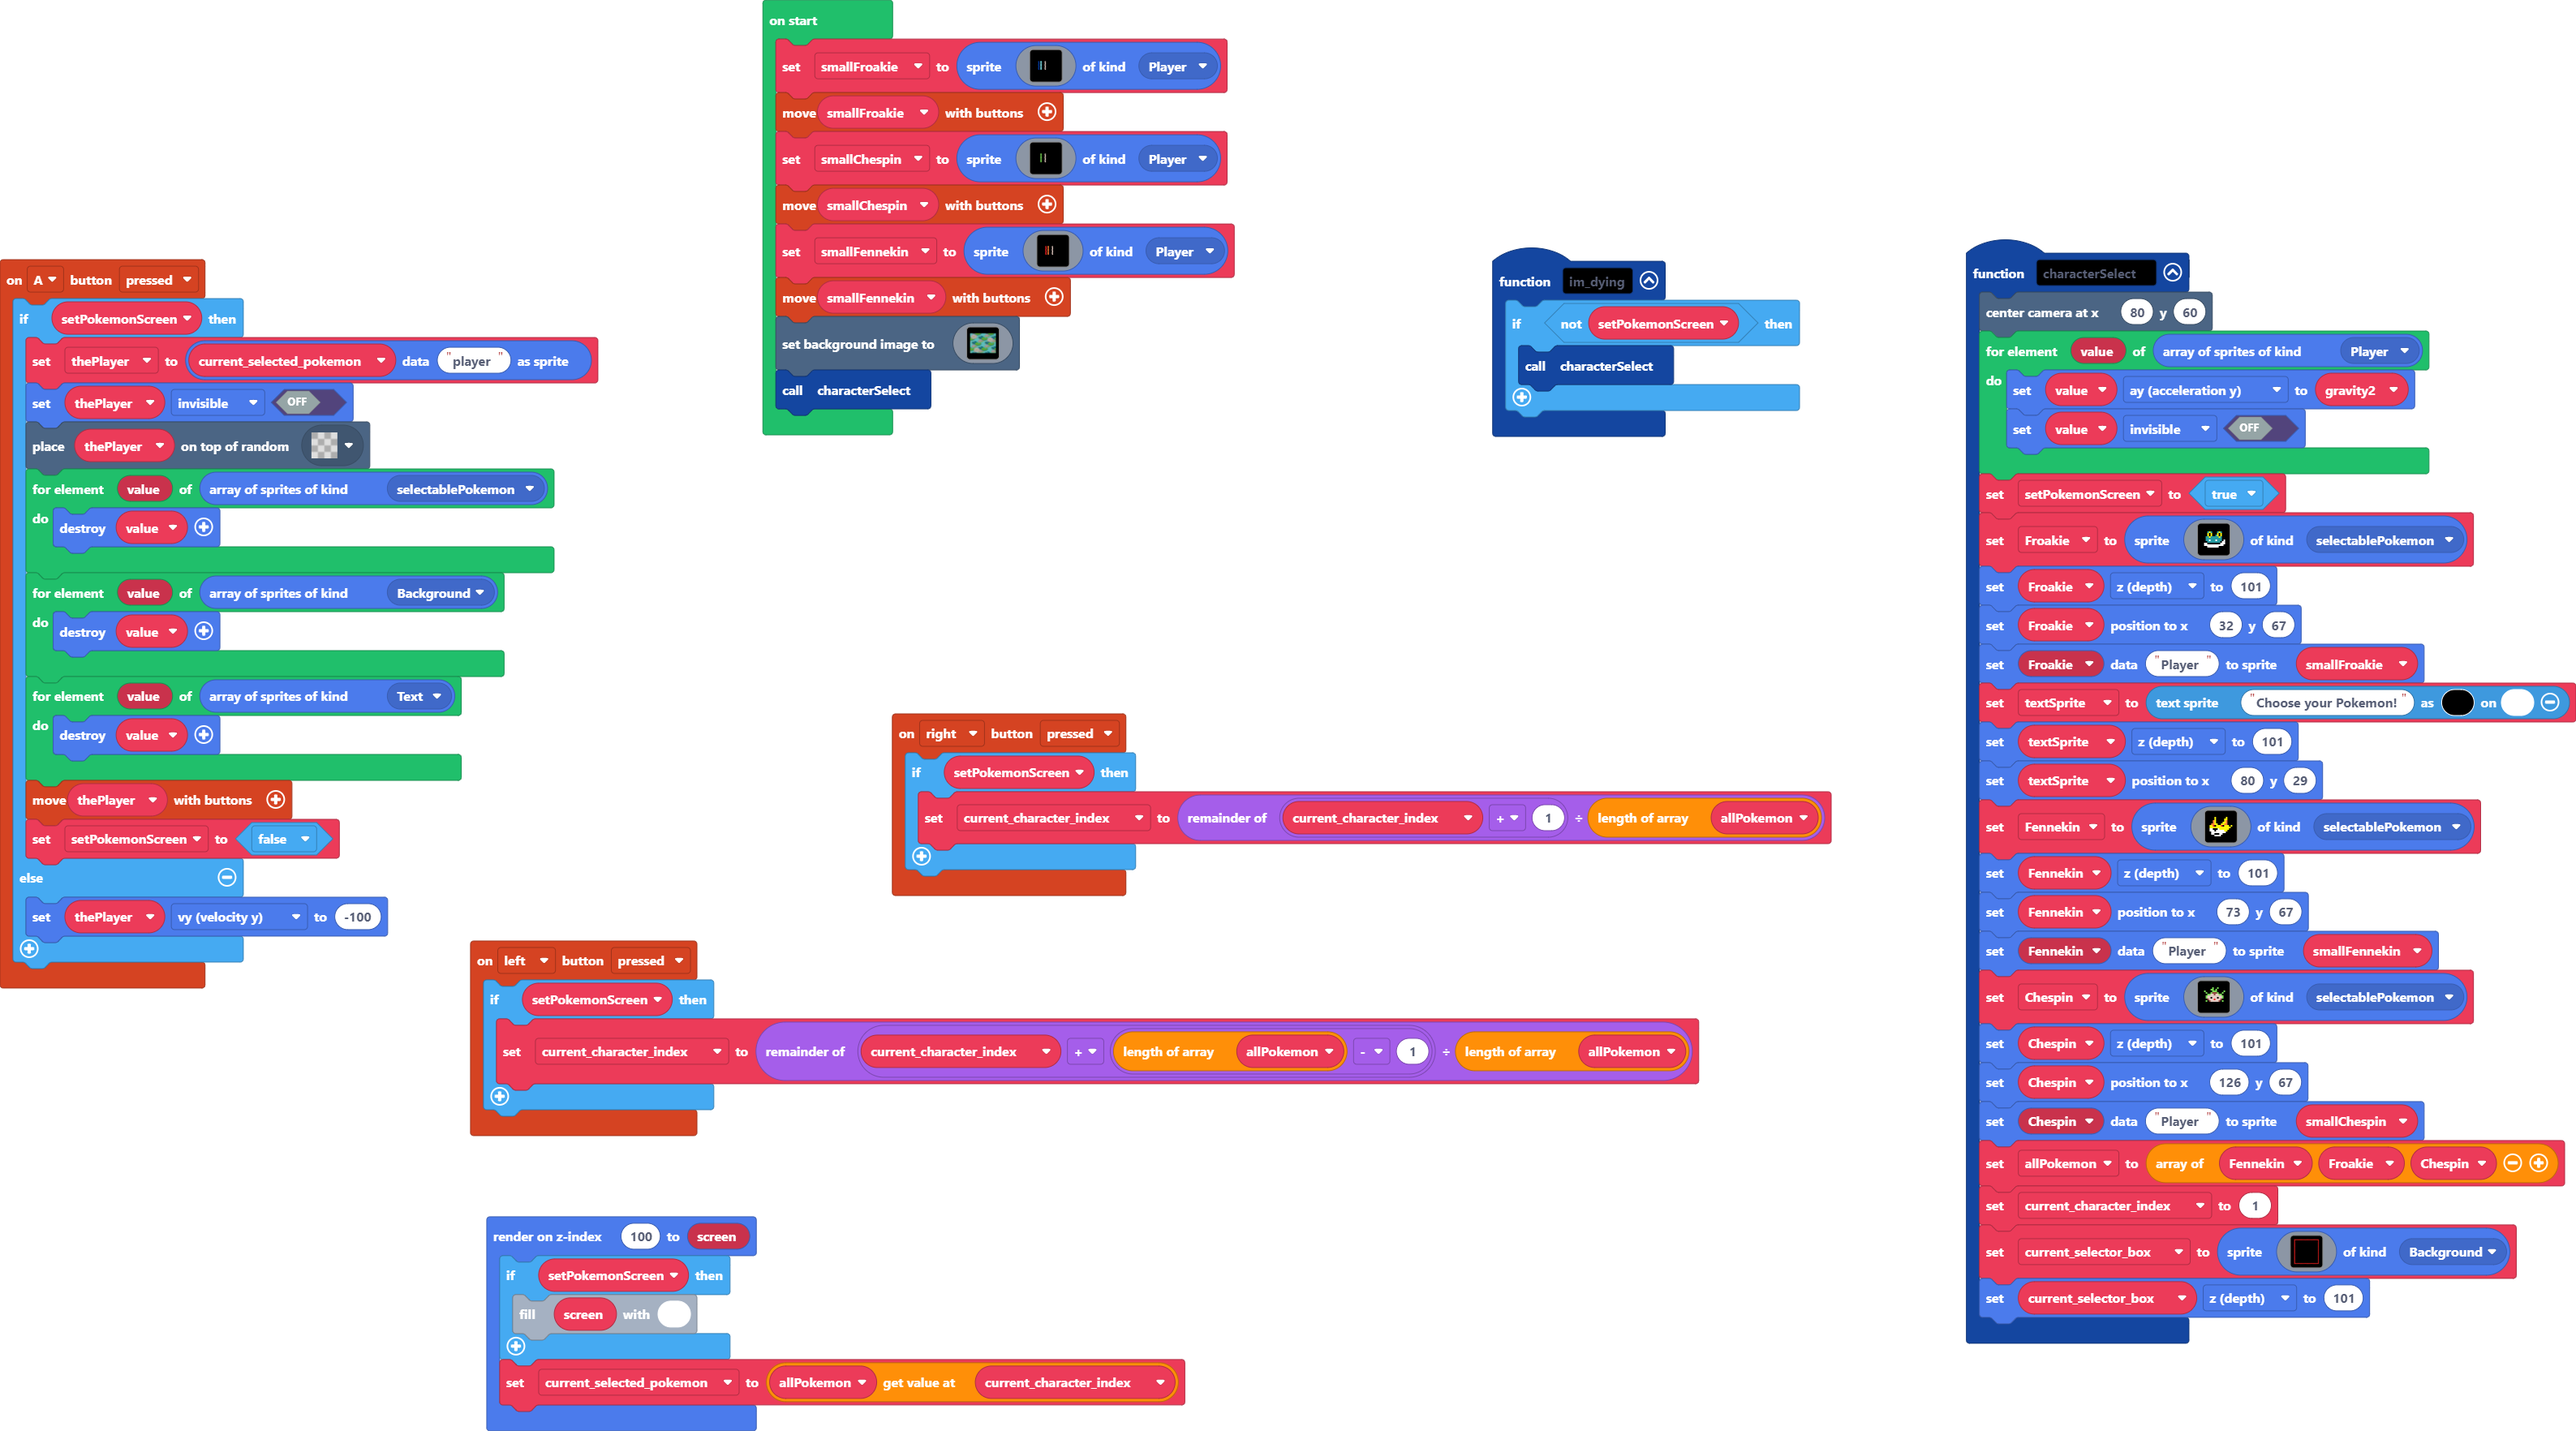
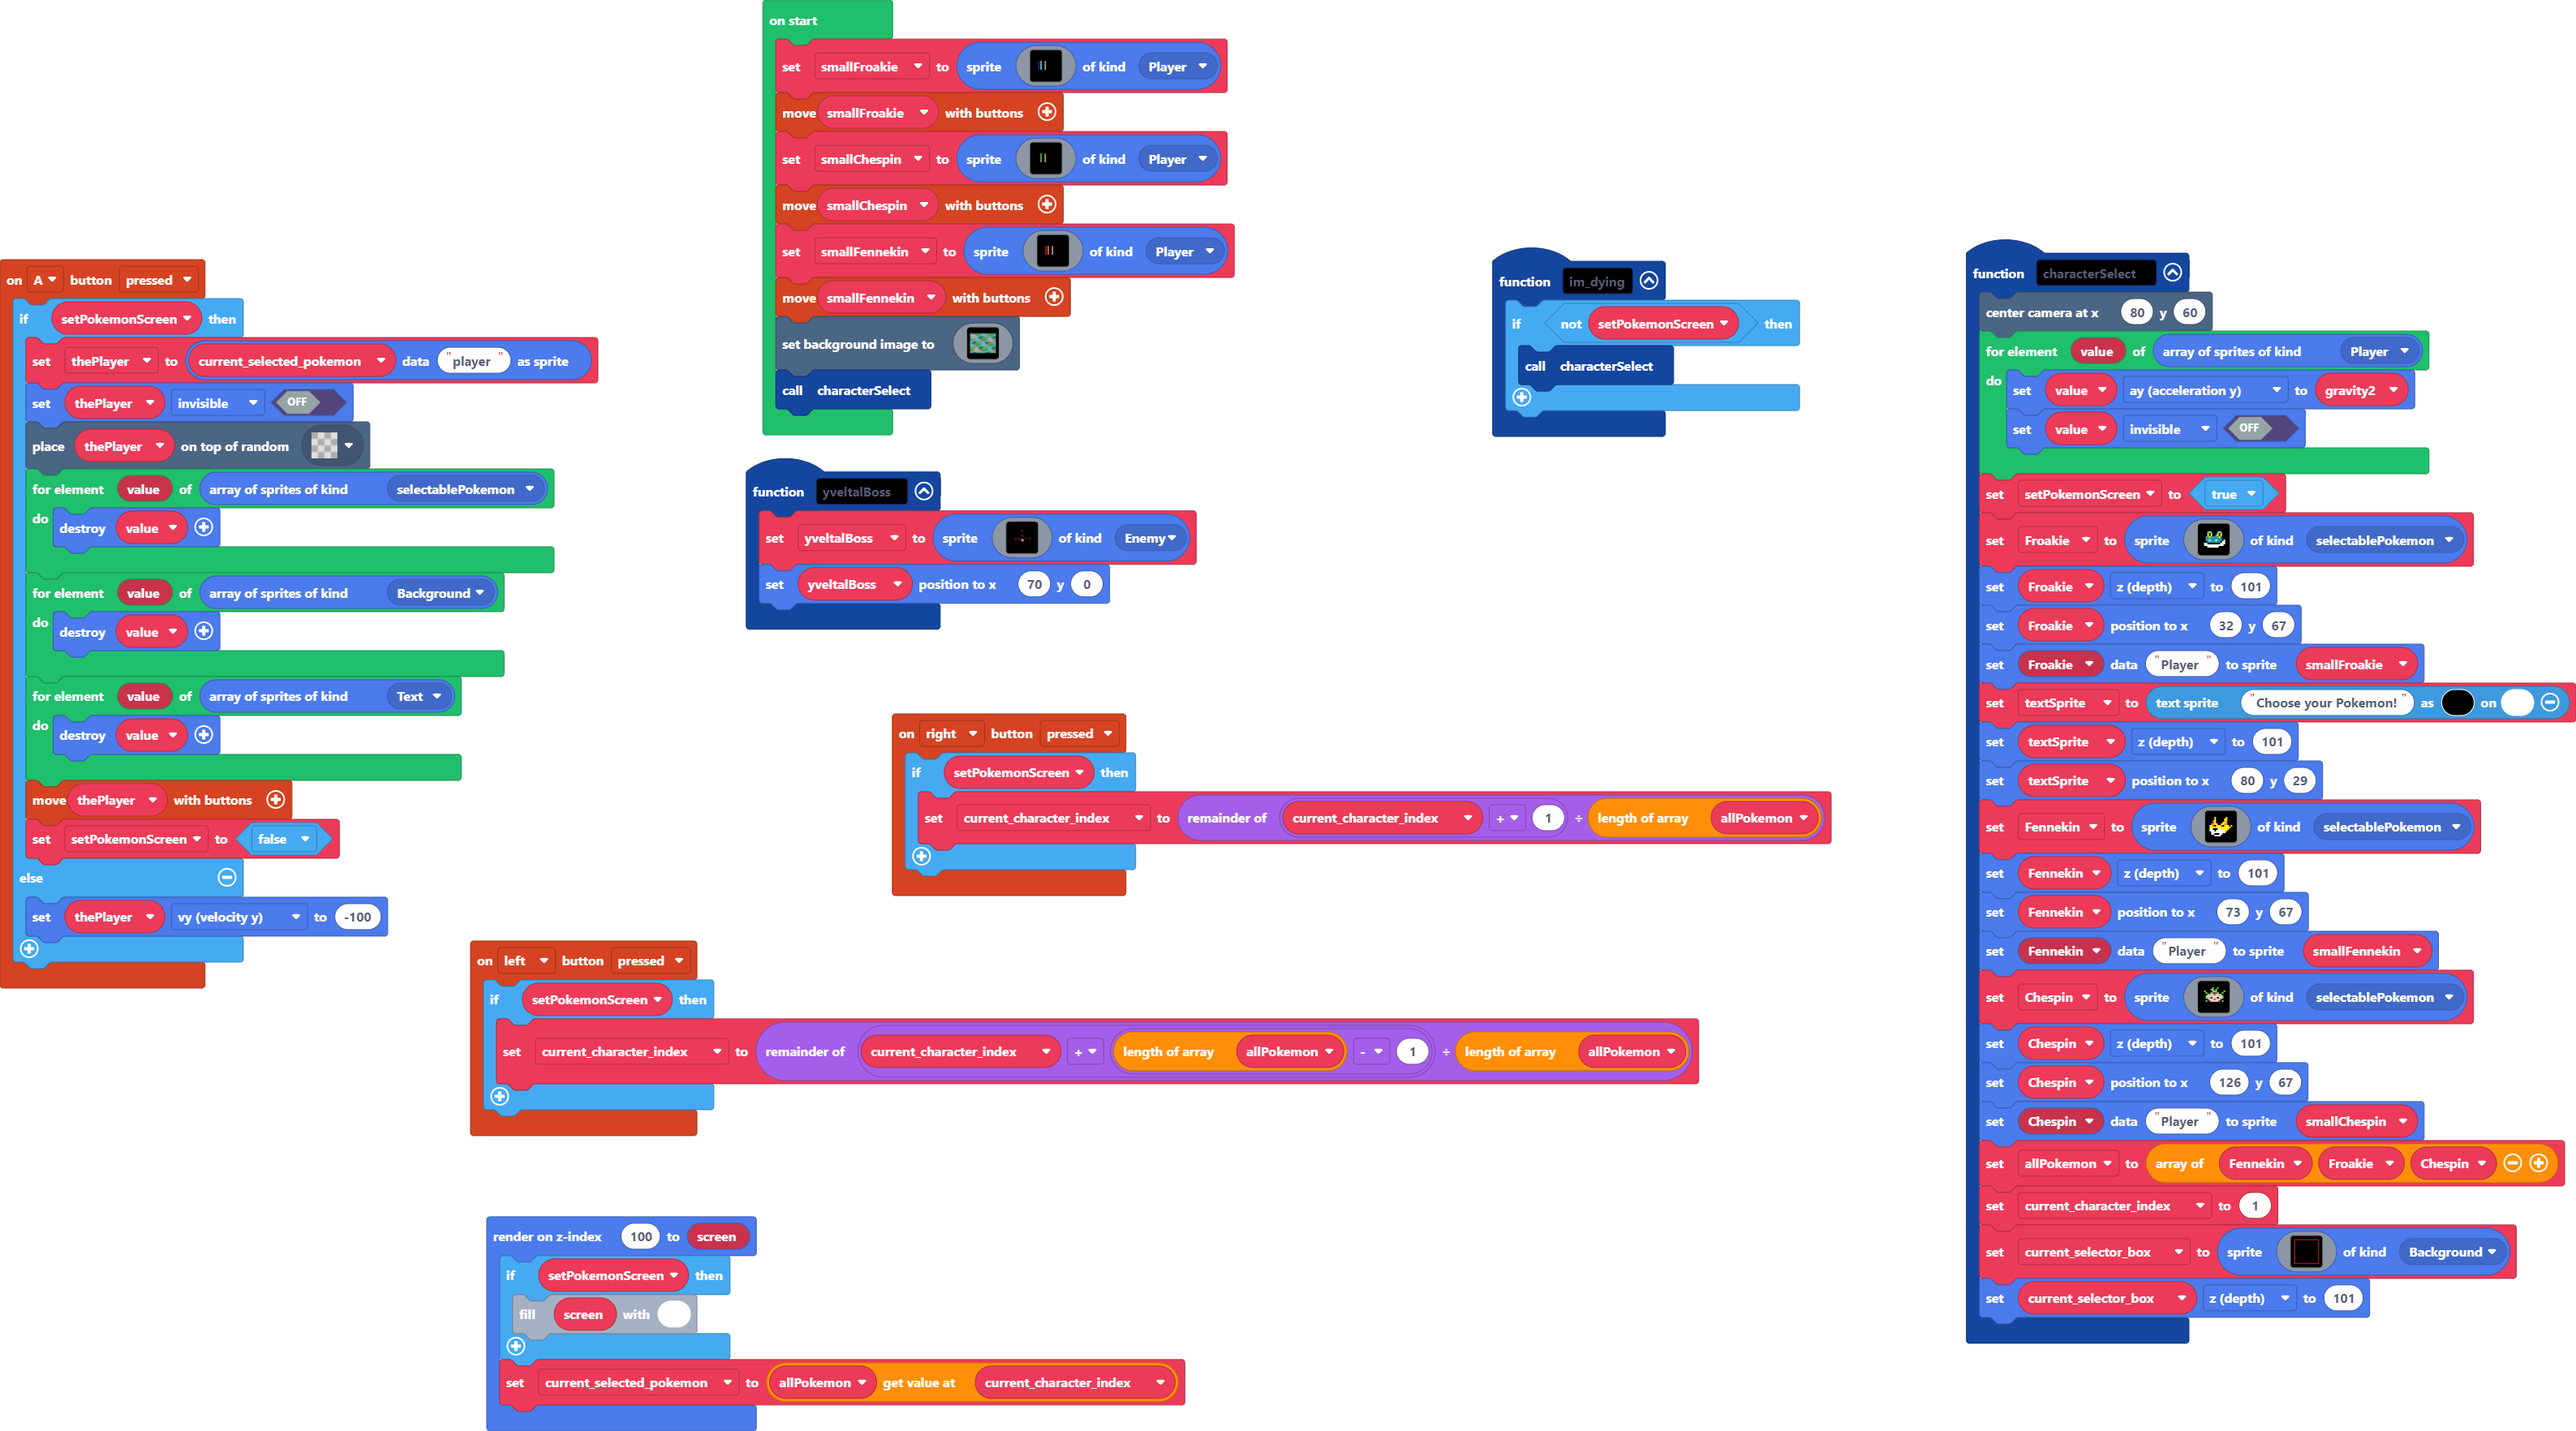
Update main.blocks, main.ts

Changed region(s): [[0.2806, 0.3118, 0.4677, 0.4677]]

diff --git a/main.ts b/main.ts
@@ -27,6 +27,111 @@ controller.A.onEvent(ControllerButtonEvent.Pressed, function () {
         thePlayer.vy = -100
     }
 })
+function yveltalBoss () {
+    yveltalBoss2 = sprites.create(img`
+        ....................................................................................................
+        ....................................................................................................
+        ....................................................................................................
+        ....................................................................................................
+        ....................................................................................................
+        ....................................................................................................
+        ....................................................................................................
+        ....................................................................................................
+        ................................................f...................................................
+        ...............................................ff...................................................
+        ...............................................ff......ff...........................................
+        ...........................................f...fff.ffffff...........................................
+        ...........................................fff.ffffffffff...........................................
+        ...........................................ffffffffffff.............................................
+        ...........................................fffffffffff..............................................
+        ...........................................ffffffffff...............................................
+        ............................................fffffffff...............................................
+        ............................................fffffffff...............................................
+        ............................................ffffffffff..............................................
+        .............................................ffff2ffff..............................................
+        .............................................ffff2ffff..............................................
+        .............................................fff222fff..............................................
+        .............................................ff22222ff..............................................
+        ............................................fff22222fff.............................................
+        ............................................ff222222fff.............................................
+        ............................................ff222222fff.............................................
+        ............................................fff2222ffff.............................................
+        ............................................ffff222ffff.............................................
+        ............................................ffff22fffff.............................................
+        ............................................fffff2fffff.............................................
+        ............................................fffffffffff.............................................
+        ............................................ffffffffff..............................................
+        ............................................ffffffffff..............................................
+        .............................................ffffffffff.............................................
+        .............................................fffffffffff............................................
+        .............................................fffffffffff............................................
+        .............................................ffffffffffff...........................................
+        .............................................fffff2ffffff...........................................
+        ............................................fffff222fffff...........................................
+        ............................................ffff2222fffff...........................................
+        ............................................ffff222222fff...........................................
+        ............................................ffff222222fff...........................................
+        ............................................fff222222ffff...........................................
+        ............................................fff222222ffff...........................................
+        ............................................ffff22222ffff...........................................
+        ............................................fffff22fffff.......fff....................f.............
+        ..................................ff........ffffff2fffff...fffffffffff.............fffff............
+        .............ff................fffffffffff...fffffffffffffffffffffffffffffffff....ffffff............
+        .............fff.......fffffffffffffffffffffffffffffffffffffffffffffffffffffffffffffffff............
+        ..............ffff....ffffffffffffffffffffffffffffffffffffffffffffffffffffffffffffffff..............
+        ..............ffff...fffffffffffffffffffffffffffffffffffffffffffffffffffffffffffffffff..............
+        ...............fffffffffffffffffffffffffffffffffffffffffffffffffff22fffffffff22222ffffff............
+        .................ffffffff2ffffffffffff22ffffffffffffffffffffffff222222ffff222222222fffffff..........
+        .................fffffff22222fffffff22222ffffffff22ffffff22ffff22222222ffff222222222ffff............
+        .............ffffffff2222222222ffff222222222ffff2222ffff2222ffff22222fffffff2222222fff..............
+        .........ffffffffff22222222222ffff222222222ffffff22ffffff22fffffff22fffffffffff222ffff..............
+        ............ffffffffff222222ffffffff22222fffff1111f11f11fffffffffffffffffffffffffffffff.............
+        .................fffffff22fffffffffff22fffffffff11111111fffffffffffffffffffffffffffffff.............
+        ..................fffffff2ffffffffffffffffffff11111111111fffffffffffffffffffffffffffffff............
+        ................ffffffffffffffffffffffffffffff111111111111fffffffff.......ffffffff..ffff............
+        ..............fffffffffffffffffffffffffffff...1111111111.....................fff....................
+        .............ffffff.fffffff.........fffff......11111111.............................................
+        ............ffff................................1111111.............................................
+        ............ffff.................................211f2..............................................
+        .................................................2f2f2..............................................
+        .................................................2f2f2..............................................
+        .................................................2f2f2..............................................
+        ..................................................f2f...............................................
+        ..................................................222...............................................
+        ...................................................2................................................
+        ....................................................................................................
+        ....................................................................................................
+        ....................................................................................................
+        ....................................................................................................
+        ....................................................................................................
+        ....................................................................................................
+        ....................................................................................................
+        ....................................................................................................
+        ....................................................................................................
+        ....................................................................................................
+        ....................................................................................................
+        ....................................................................................................
+        ....................................................................................................
+        ....................................................................................................
+        ....................................................................................................
+        ....................................................................................................
+        ....................................................................................................
+        ....................................................................................................
+        ....................................................................................................
+        ....................................................................................................
+        ....................................................................................................
+        ....................................................................................................
+        ....................................................................................................
+        ....................................................................................................
+        ....................................................................................................
+        ....................................................................................................
+        ....................................................................................................
+        ....................................................................................................
+        ....................................................................................................
+        ....................................................................................................
+        `, SpriteKind.Enemy)
+    yveltalBoss2.setPosition(70, 0)
+}
 controller.left.onEvent(ControllerButtonEvent.Pressed, function () {
     if (setPokemonScreen) {
         current_character_index = (current_character_index + (allPokemon.length - 1)) % allPokemon.length
@@ -166,6 +271,7 @@ let textSprite: TextSprite = null
 let Froakie: Sprite = null
 let allPokemon: Sprite[] = []
 let current_character_index = 0
+let yveltalBoss2: Sprite = null
 let current_selected_pokemon: Sprite = null
 let thePlayer: Sprite = null
 let setPokemonScreen = false
